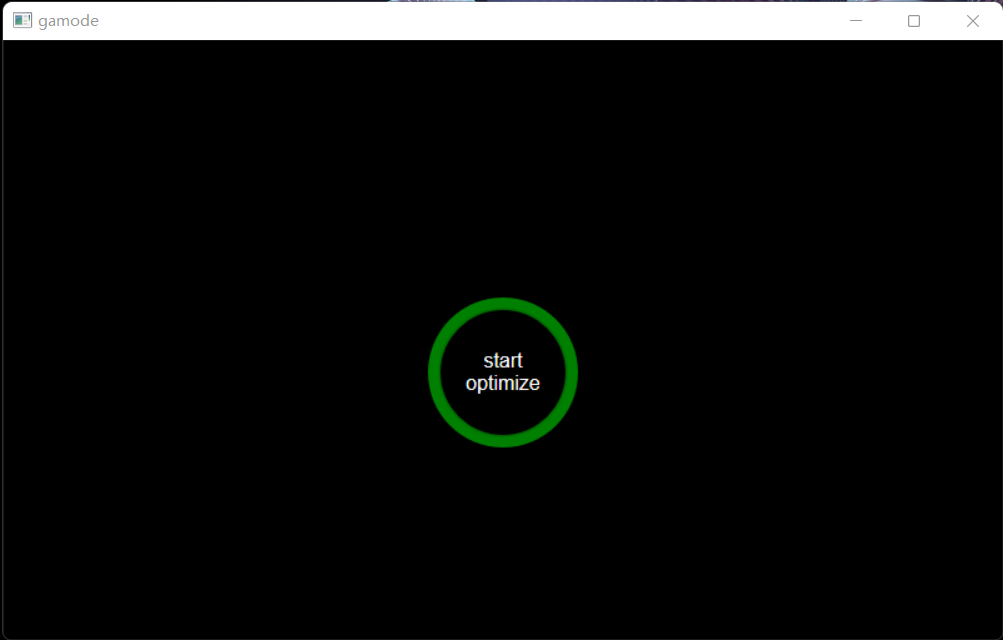
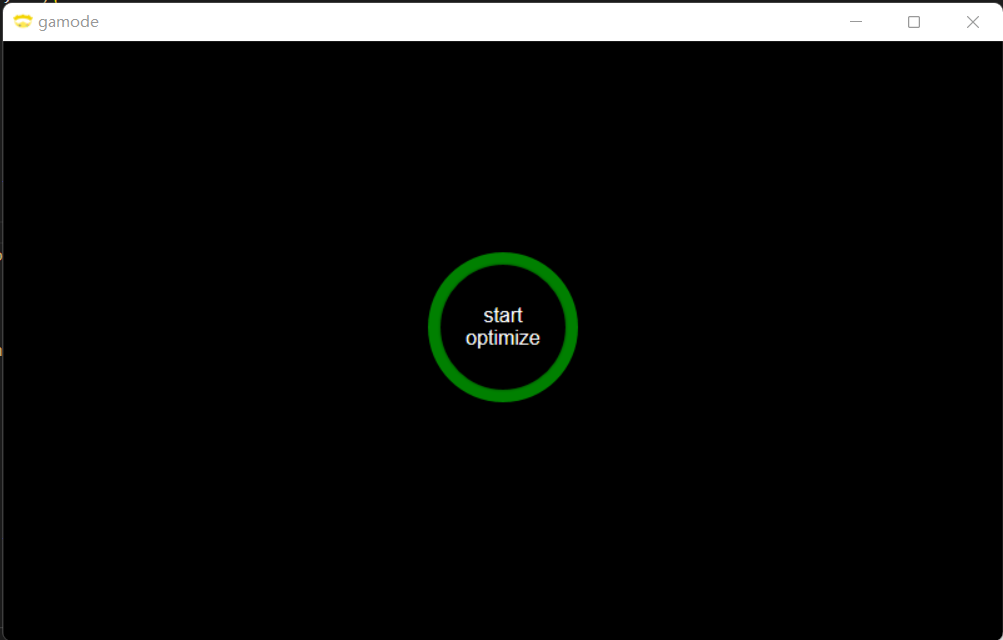
readme

diff --git a/src/assets/css/demo.css b/src/assets/css/demo.css
@@ -10,9 +10,10 @@ body {
 	-webkit-font-smoothing: antialiased;
 	-moz-osx-font-smoothing: grayscale;
 }
-/* html,body{
+html,body{
 	height: 100%;
-} */
+	overflow: hidden;
+}
 
 a {
 	outline: none;
@@ -25,7 +26,7 @@ a:hover, a:focus {
 }
 
 .container {
-	height: 480px;
+	height: 442px;/* 480 - 32 */
 	/* height: 100vh; */
 	/* min-height: 665px; */
 	overflow: hidden;

diff --git a/README.md b/README.md
@@ -1,5 +1,11 @@
 # <img src="logo256.png" alt="logo" width="32" height="32" style="vertical-align: bottom;" /> gamode  
 
+windows optimization tool for game.
+
+support win8 and upper.  
+
+development under win11.  
+
 ![preview](preview.png)  
 
 - [x] enable system builtin game mode  
